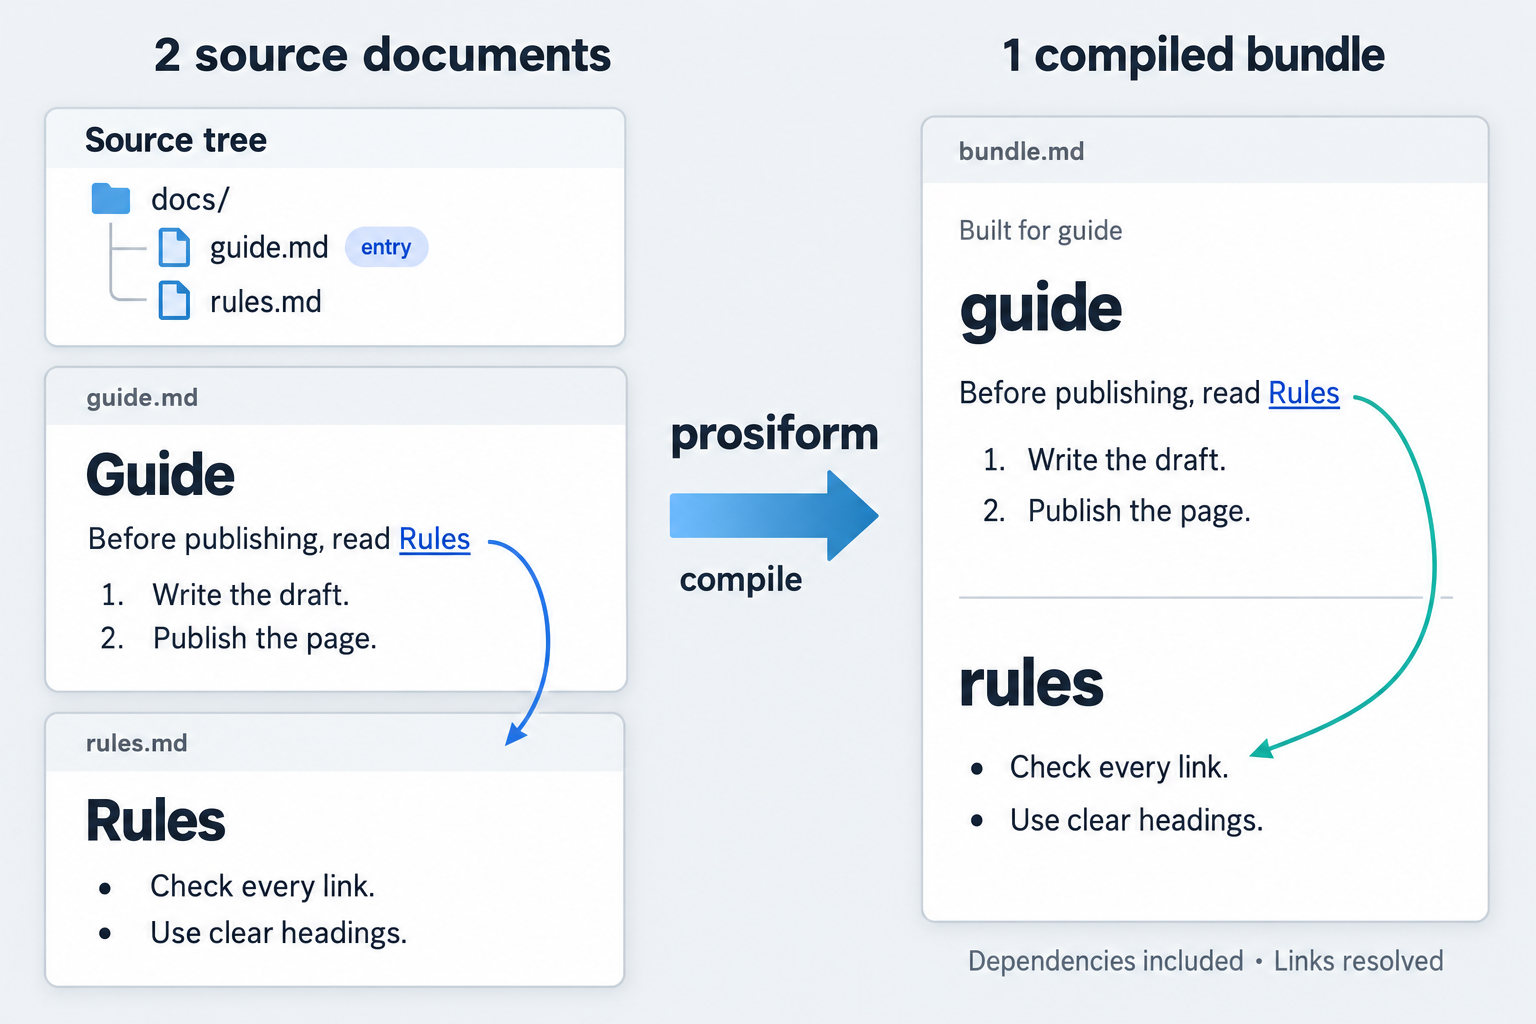
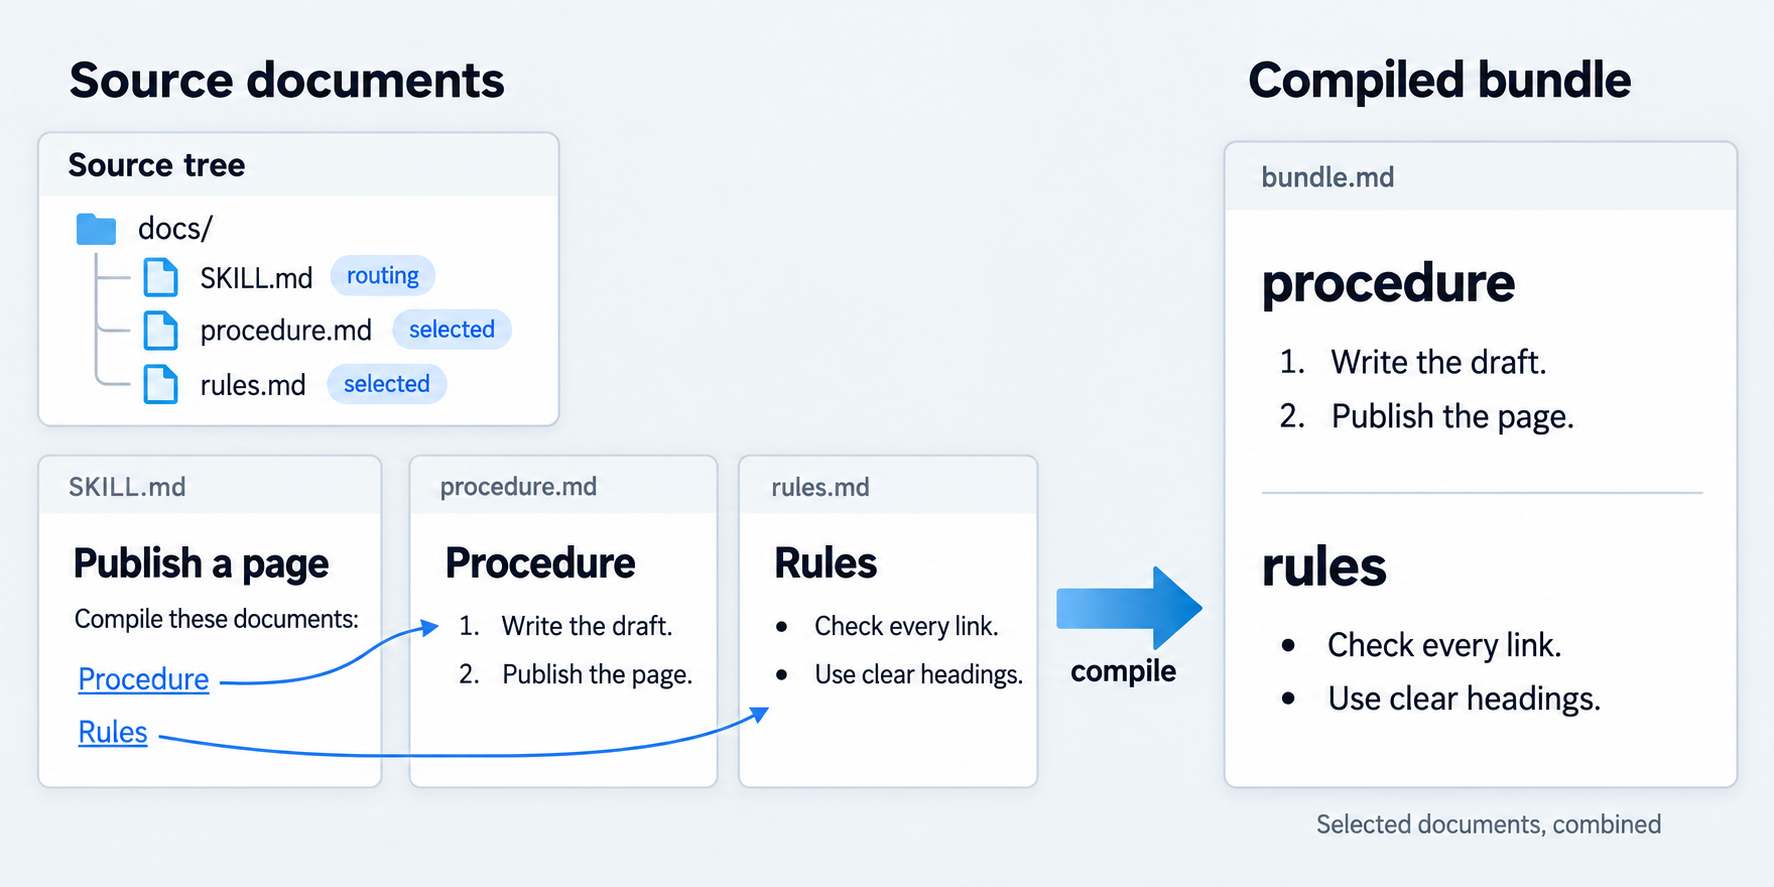
docs: illustrate compilation of documents selected from a skill

diff --git a/README.md b/README.md
@@ -5,7 +5,7 @@
 
 A deterministic compiler for instruction sets written as linked Markdown. Give it a document or a section; it returns that content and every local Markdown dependency it reaches, as one validated bundle.
 
-![The source tree contains guide.md and rules.md. The guide links to Rules; prosiform includes both documents in one compiled bundle and rewrites that link to the included rules section.](docs/images/compilation.png)
+![SKILL.md links to procedure.md and rules.md in the source tree. The two linked documents are selected for compilation and combined into one bundle; SKILL.md is not included.](docs/images/compilation.png)
 
 ---
 **[Invocation](invocation.md)** • **[Checks](checks.md)** • **[Glossary](docs/glossary.md)** • **[Fixtures](fixtures/README.md)** • **[Source](src/README.md)** • **[Docs](docs/README.md)** • **[Check implementation](checks/README.md)** • **[Example](example/README.md)**
